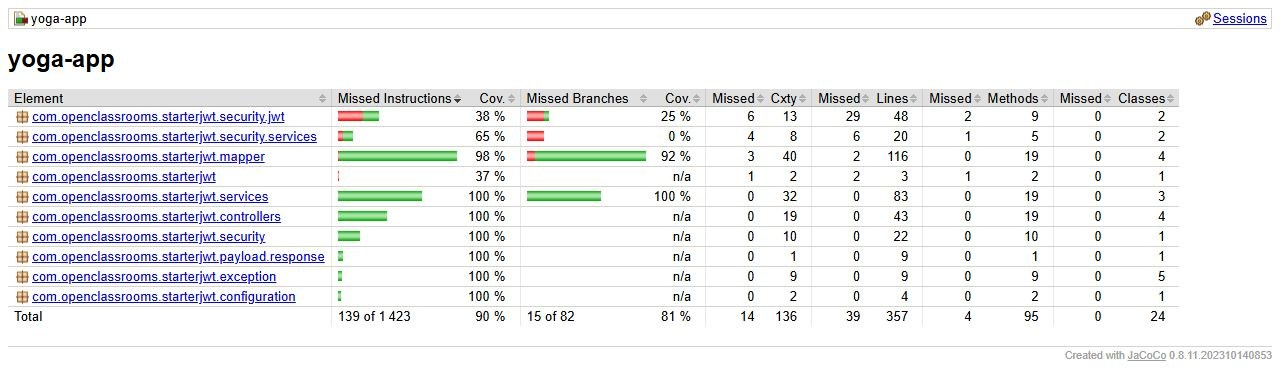
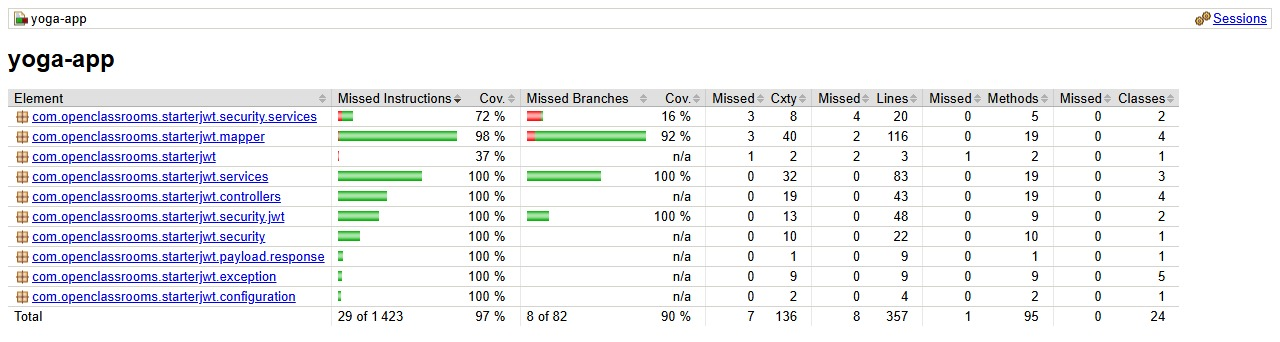
test: ajout des tests pour JwtUtilsTest et AuthTokenFilterTest qui permet de vérifier la sécurité sur l'entrée de l'API.

Changed region(s): [[0.0, 0.2339, 1.0, 0.9649], [0.0, 0.0, 1.0, 0.0877], [0.0, 0.1462, 0.0938, 0.2047]]

diff --git a/back/src/test/java/com/openclassrooms/starterjwt/security/jwt/AuthTokenFilterTest.java b/back/src/test/java/com/openclassrooms/starterjwt/security/jwt/AuthTokenFilterTest.java
@@ -1,0 +1,116 @@
+package com.openclassrooms.starterjwt.security.jwt;
+
+import com.openclassrooms.starterjwt.security.services.UserDetailsImpl;
+import com.openclassrooms.starterjwt.security.services.UserDetailsServiceImpl;
+import jakarta.servlet.FilterChain;
+import org.junit.jupiter.api.AfterEach;
+import org.junit.jupiter.api.BeforeEach;
+import org.junit.jupiter.api.Test;
+import org.junit.jupiter.api.extension.ExtendWith;
+import org.mockito.InjectMocks;
+import org.mockito.Mock;
+import org.mockito.junit.jupiter.MockitoExtension;
+import org.springframework.mock.web.MockHttpServletRequest;
+import org.springframework.mock.web.MockHttpServletResponse;
+import org.springframework.security.core.Authentication;
+import org.springframework.security.core.context.SecurityContextHolder;
+import org.springframework.security.core.userdetails.UserDetails;
+import org.springframework.security.core.userdetails.UsernameNotFoundException;
+
+import static org.assertj.core.api.Assertions.assertThat;
+import static org.mockito.Mockito.verify;
+import static org.mockito.Mockito.when;
+
+@ExtendWith(MockitoExtension.class)
+class AuthTokenFilterTest {
+
+    @Mock
+    private JwtUtils jwtUtils;
+    @Mock
+    private UserDetailsServiceImpl userDetailsService;
+    @Mock
+    private FilterChain filterChain;
+
+    @InjectMocks
+    private AuthTokenFilter authTokenFilter;
+
+    private MockHttpServletRequest request;
+    private MockHttpServletResponse response;
+
+    @BeforeEach
+    void setUp() {
+        request = new MockHttpServletRequest();
+        response = new MockHttpServletResponse();
+    }
+
+    @AfterEach
+    void tearDown() {
+        SecurityContextHolder.clearContext();
+    }
+
+    @Test
+    void doFilterInternal_noAuthorizationHeader_doesNotSetAuthentication() throws Exception {
+        authTokenFilter.doFilterInternal(request, response, filterChain);
+
+        assertThat(SecurityContextHolder.getContext().getAuthentication()).isNull();
+        verify(filterChain).doFilter(request, response);
+    }
+
+    @Test
+    void doFilterInternal_headerWithoutBearerPrefix_doesNotSetAuthentication() throws Exception {
+        addHeader("Basic abc123");
+
+        authTokenFilter.doFilterInternal(request, response, filterChain);
+
+        assertThat(SecurityContextHolder.getContext().getAuthentication()).isNull();
+        verify(filterChain).doFilter(request, response);
+    }
+
+    @Test
+    void doFilterInternal_validToken_setsAuthentication() throws Exception {
+        addHeader("Bearer valid-token");
+        UserDetails userDetails = UserDetailsImpl.builder()
+                .id(1L).username("test@test.com").firstName("test").lastName("test")
+                .admin(false).password("encoded-password").build();
+
+        when(jwtUtils.validateJwtToken("valid-token")).thenReturn(true);
+        when(jwtUtils.getUserNameFromJwtToken("valid-token")).thenReturn("test@test.com");
+        when(userDetailsService.loadUserByUsername("test@test.com")).thenReturn(userDetails);
+
+        authTokenFilter.doFilterInternal(request, response, filterChain);
+
+        Authentication authentication = SecurityContextHolder.getContext().getAuthentication();
+        assertThat(authentication).isNotNull();
+        assertThat(authentication.getPrincipal()).isEqualTo(userDetails);
+        verify(filterChain).doFilter(request, response);
+    }
+
+    @Test
+    void doFilterInternal_invalidToken_doesNotSetAuthentication() throws Exception {
+        addHeader("Bearer invalid-token");
+        when(jwtUtils.validateJwtToken("invalid-token")).thenReturn(false);
+
+        authTokenFilter.doFilterInternal(request, response, filterChain);
+
+        assertThat(SecurityContextHolder.getContext().getAuthentication()).isNull();
+        verify(filterChain).doFilter(request, response);
+    }
+
+    @Test
+    void doFilterInternal_userNotFound_swallowsExceptionAndCallsChain() throws Exception {
+        addHeader("Bearer valid-token");
+        when(jwtUtils.validateJwtToken("valid-token")).thenReturn(true);
+        when(jwtUtils.getUserNameFromJwtToken("valid-token")).thenReturn("unknown@test.com");
+        when(userDetailsService.loadUserByUsername("unknown@test.com"))
+                .thenThrow(new UsernameNotFoundException("User Not Found"));
+
+        authTokenFilter.doFilterInternal(request, response, filterChain);
+
+        assertThat(SecurityContextHolder.getContext().getAuthentication()).isNull();
+        verify(filterChain).doFilter(request, response);
+    }
+
+    private void addHeader(String value) {
+        request.addHeader("Authorization", value);
+    }
+}

diff --git a/back/src/test/java/com/openclassrooms/starterjwt/security/jwt/JwtUtilsTest.java b/back/src/test/java/com/openclassrooms/starterjwt/security/jwt/JwtUtilsTest.java
@@ -1,0 +1,105 @@
+package com.openclassrooms.starterjwt.security.jwt;
+
+import com.openclassrooms.starterjwt.security.services.UserDetailsImpl;
+import io.jsonwebtoken.Jwts;
+import io.jsonwebtoken.SignatureAlgorithm;
+import org.junit.jupiter.api.BeforeEach;
+import org.junit.jupiter.api.Test;
+import org.junit.jupiter.api.extension.ExtendWith;
+import org.mockito.InjectMocks;
+import org.mockito.junit.jupiter.MockitoExtension;
+import org.springframework.security.authentication.UsernamePasswordAuthenticationToken;
+import org.springframework.security.core.Authentication;
+import org.springframework.security.core.userdetails.UserDetails;
+import org.springframework.test.util.ReflectionTestUtils;
+
+import java.util.Date;
+
+import static org.assertj.core.api.Assertions.assertThat;
+
+@ExtendWith(MockitoExtension.class)
+class JwtUtilsTest {
+
[1 lines of base64/hex data omitted]
+    private static final int JWT_EXPIRATION_MS = 86400000;
+
+    @InjectMocks
+    private JwtUtils jwtUtils;
+
+    private UserDetails userDetails;
+    private String token;
+
+    @BeforeEach
+    void setUp() {
+        ReflectionTestUtils.setField(jwtUtils, "jwtSecret", JWT_SECRET);
+        ReflectionTestUtils.setField(jwtUtils, "jwtExpirationMs", JWT_EXPIRATION_MS);
+        userDetails = UserDetailsImpl.builder()
+                .id(1L)
+                .username("test@test.com")
+                .firstName("test")
+                .lastName("test")
+                .admin(false)
+                .password("encoded-password")
+                .build();
+        Authentication authentication = new UsernamePasswordAuthenticationToken(userDetails, null, userDetails.getAuthorities());
+        token = jwtUtils.generateJwtToken(authentication);
+    }
+
+    @Test
+    void getUserNameFromJwtToken_success() {
+
+        String userName = jwtUtils.getUserNameFromJwtToken(token);
+        assertThat(userName).isEqualTo(userDetails.getUsername());
+    }
+
+    @Test
+    void validateJwtToken_success() {
+        assertThat(jwtUtils.validateJwtToken(token)).isTrue();
+    }
+
+    @Test
+    void validateJwtToken_malformedToken_returnsFalse() {
+        assertThat(jwtUtils.validateJwtToken("toto")).isFalse();
+    }
+
+    @Test
+    void validateJwtToken_invalidSignature_returnsFalse() {
+        String otherSecretToken = Jwts.builder()
+                .subject("test@test.com")
+                .issuedAt(new Date())
+                .expiration(new Date(System.currentTimeMillis() + 60000))
+                .signWith(SignatureAlgorithm.HS512, "1".repeat(100))
+                .compact();
+
+        assertThat(jwtUtils.validateJwtToken(otherSecretToken)).isFalse();
+    }
+
+    @Test
+    void validateJwtToken_expiredToken_returnsFalse() {
+        String expiredToken = Jwts.builder()
+                .subject("test@test.com")
+                .issuedAt(new Date(System.currentTimeMillis() - 20000))
+                .expiration(new Date(System.currentTimeMillis() - 10000))
+                .signWith(SignatureAlgorithm.HS512, JWT_SECRET)
+                .compact();
+
+        assertThat(jwtUtils.validateJwtToken(expiredToken)).isFalse();
+    }
+
+    @Test
+    void validateJwtToken_unsupportedToken_returnsFalse() {
+        String unsignedToken = Jwts.builder()
+                .subject("test@test.com")
+                .issuedAt(new Date())
+                .expiration(new Date(System.currentTimeMillis() + 60000))
+                .compact();
+
+        assertThat(jwtUtils.validateJwtToken(unsignedToken)).isFalse();
+    }
+
+    @Test
+    void validateJwtToken_emptyToken_returnsFalse() {
+        assertThat(jwtUtils.validateJwtToken("")).isFalse();
+    }
+
+}
